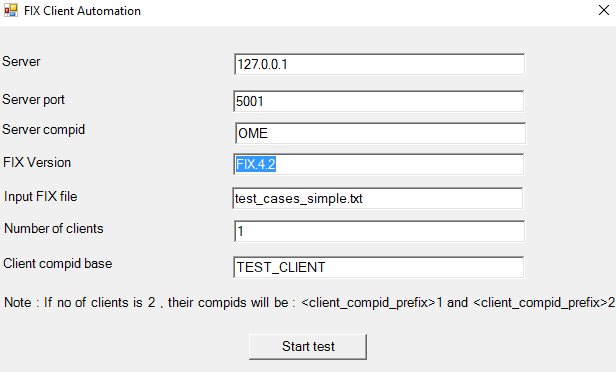
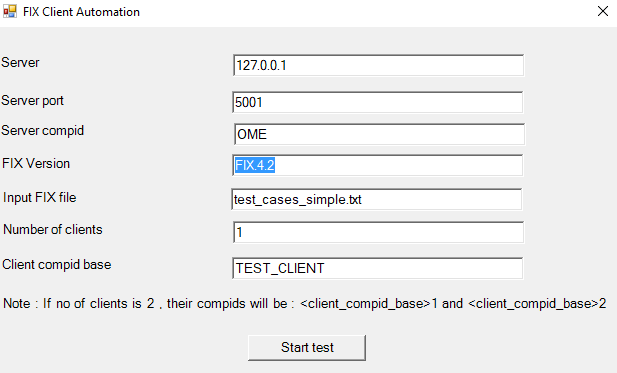
functional test documentation and code indendation , ui correction

diff --git a/README.md b/README.md
@@ -258,26 +258,25 @@ The engine produces log messages below when it receives 1 buy order with quantit
 
 ## <a name="FunctionalTesting">**9. Functional testing:** 
 
-There is a Powershell script for Windows which can send orders from FIX files.
-		   
 Under "test_functional" directory :
-   
-For Windows
 
-1. Modify test_data.txt which has the orders to send to the engine as you wish.
+For Linux, a FIX client automation implemented in Python will be available soon.
+   
+For Windows there is a Powershell script for Windows which can send orders from FIX files using Fix protocol.
+It internally uses C# to implement FIX protocol.
+
+1. Modify test_data.txt which has the orders to send to the engine as FIX messages.
 
 2. For firing Windows test client(s), you can use fix_client_automation.bat.
 
-3. A GUI will appear. Simply specify target server , number of test clients and the test case file :
+3. A GUI will appear. Simply specify the arguments.
 
 4. Press the start button.
         
 <p align="center">  
 <img src="https://github.com/akhin/cpp_multithreaded_order_matching_engine/blob/master/documentation/testfunctional_gui_windows.png">       
 </p>
-        
-For Linux, the same automation will be available soon in Perl and Python.
-    
+            
 ## <a name="UnitTesting">**10. Unit testing with GoogleTest:** 
 
 The project uses GoogleTest 1.7. You can find a makefile and vcproj under "test_unit" directory.
